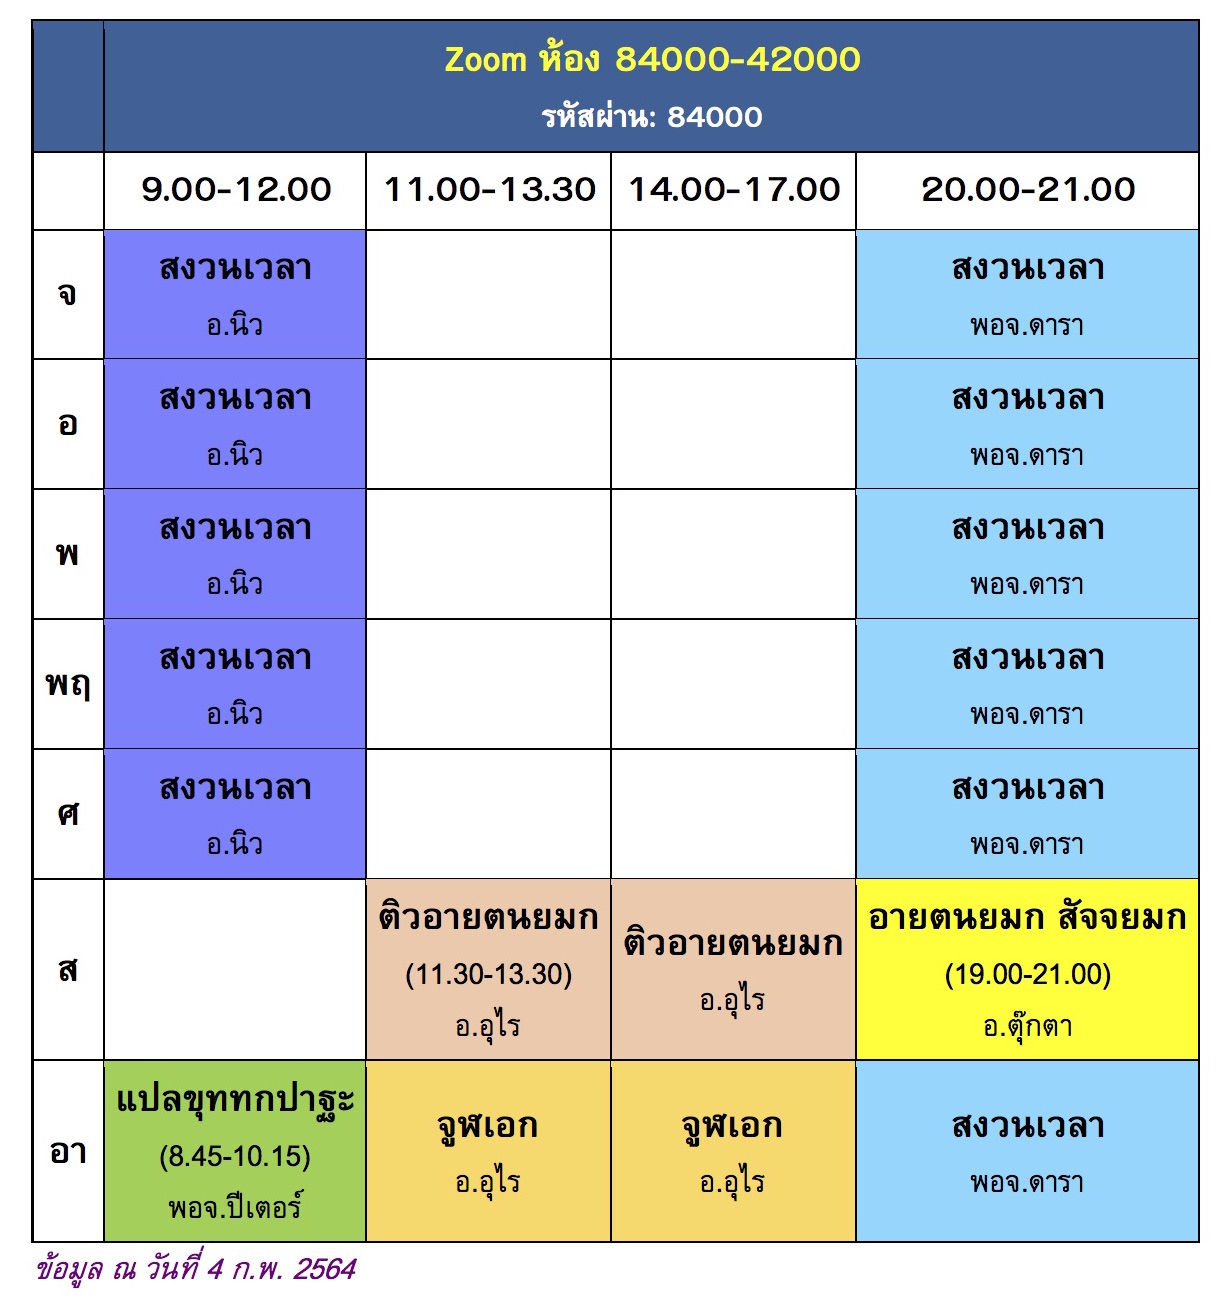
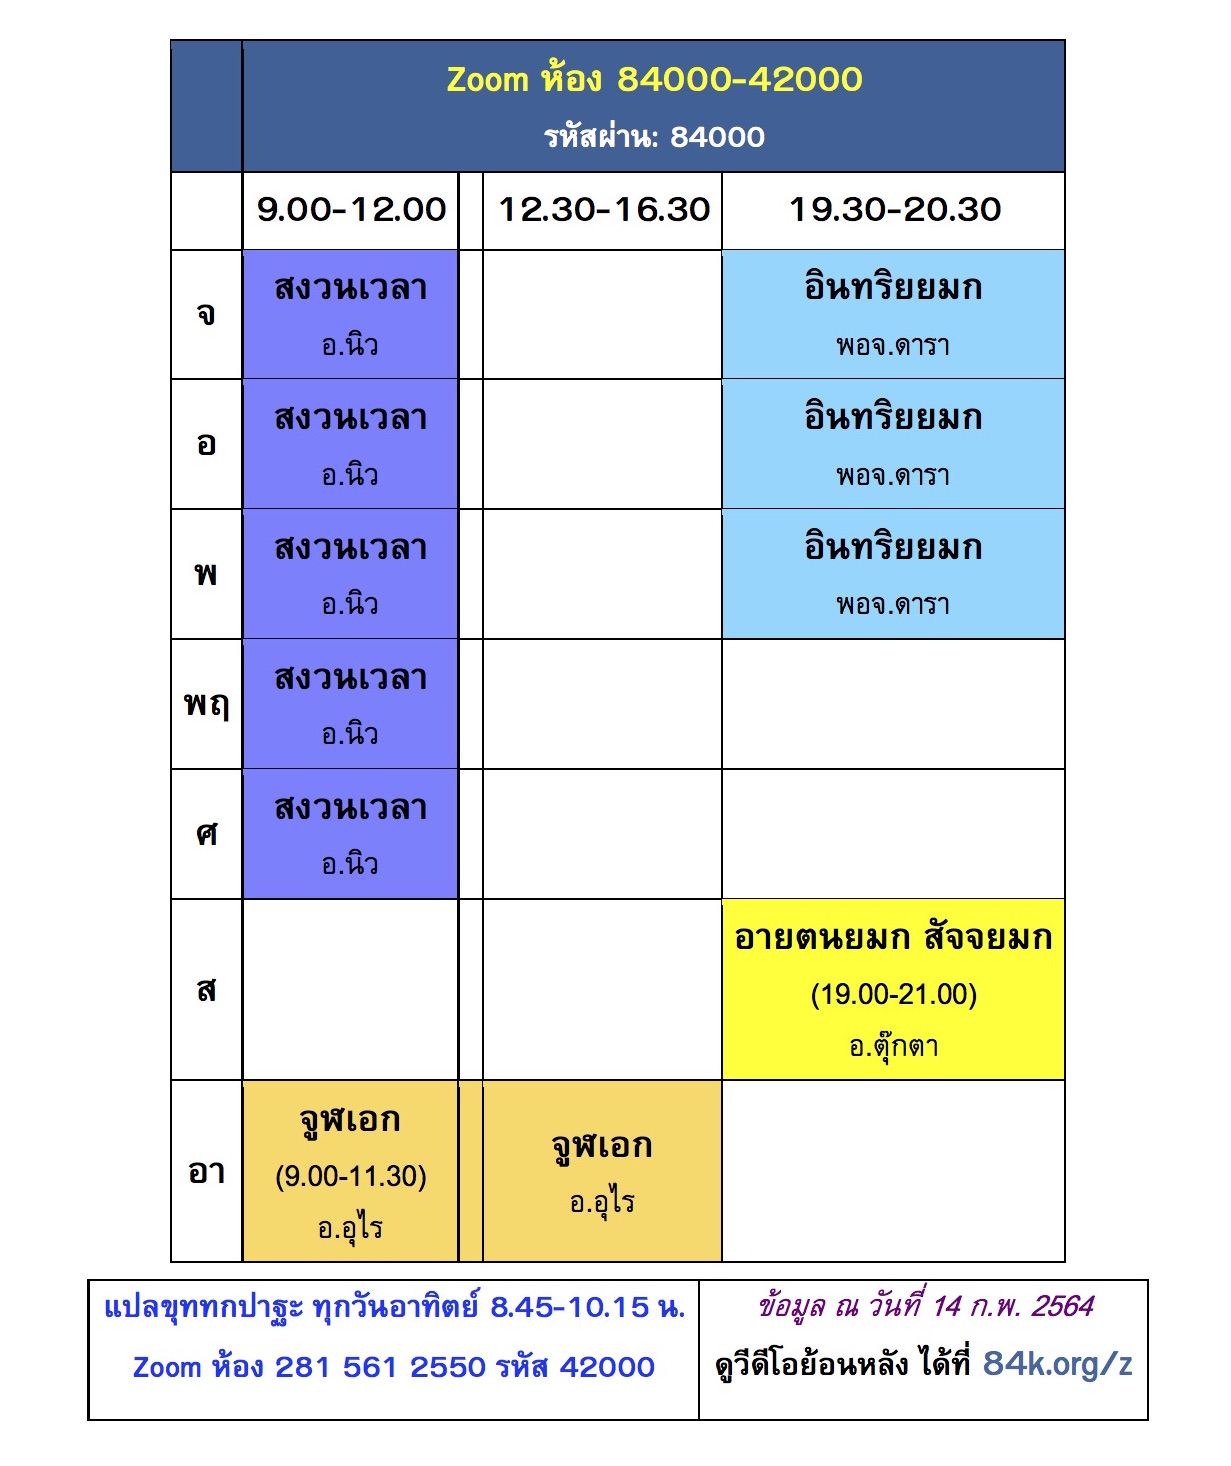
2021-02-14

diff --git a/links/index.html b/links/index.html
@@ -78,7 +78,8 @@
             <A href="http://www.kbrl.gov.mm" target="_blank">KBRL</A> |
             <A href="http://burmalibrary.org" target="_blank">Burma Library</A> |
             <A href="http://www.ibiblio.org/obl/show.php?cat=497" target="_blank">(Buddhist texts)</A> |
-            <A href="https://drive.google.com/drive/folders/1mfA4T8cYNyQNBFoTbLBuWELILd8uivfH?usp=sharing" href="_blank">บาฬีไวยากรณ์</A>
+            <A href="https://drive.google.com/drive/folders/1KTfelBkbF0YElp8tTHOkMC738-YcjoAv" target="_blank">คัมภีร์บาฬี อักษรพม่า</A> |
+            <A href="https://drive.google.com/drive/folders/1mfA4T8cYNyQNBFoTbLBuWELILd8uivfH" target="_blank">บาฬีไวยากรณ์</A>
 
 
             <HR style=width:50%>
@@ -102,10 +103,15 @@
 
             <HR style=width:50%>
             <H2>คลังไฟล์อภิธรรม</H2>
-            <A href="https://onedrive.live.com/?authkey=%21AFzwqmbQzEj38CQ&id=A52784FB8B0C64F6%2122981&cid=A52784FB8B0C64F6" href="_blank">อชว</A> |
+            <A href="https://onedrive.live.com/?authkey=%21AKtUipm1syZyKdE&id=A52784FB8B0C64F6%2137312&cid=A52784FB8B0C64F6" target="_blank">ยมกบน</A> |
+            <A href="https://onedrive.live.com/?authkey=%21AFzwqmbQzEj38CQ&id=A52784FB8B0C64F6%2122981&cid=A52784FB8B0C64F6" target="_blank">อชว</A> |
+            <A href="https://onedrive.live.com/?authkey=%21APmwrLUzzXsP-eI&id=A52784FB8B0C64F6%2123016&cid=A52784FB8B0C64F6" target="_blank">แนบ</A> |
+            <A href="https://onedrive.live.com/?authkey=%21ABhIbmcg7sKjo98&id=A52784FB8B0C64F6%2132817&cid=A52784FB8B0C64F6" target="_blank">อ.ไชยวัฒน์</A> |
+            <A href="https://onedrive.live.com/?authkey=%21APTbcesjv8Ifm8U&id=A52784FB8B0C64F6%2138944&cid=A52784FB8B0C64F6" target="_blank">อ.สมพร</A> |
             อ.หลิว
-            <A href="https://drive.google.com/open?id=0B1n-qwHtM-6efkZndGJmWUVWWXFLOUVscjcxdklRcy00MVhaRlc5V0phNnJDaDdETVJYV3M" href="_blank">(1)</A>
-            <A href="https://drive.google.com/open?id=0B1CxB73ecurGfmRDaUZ5M0pPcEtWT0ZkOWQ0U3JBWVJocFJsQ0RzSWRkbUk0UUdkeFRKMGs" href="_blank">(2)</A>
+            <A href="https://drive.google.com/open?id=0B1n-qwHtM-6efkZndGJmWUVWWXFLOUVscjcxdklRcy00MVhaRlc5V0phNnJDaDdETVJYV3M" target="_blank">(1)</A>
+            <A href="https://drive.google.com/open?id=0B1CxB73ecurGfmRDaUZ5M0pPcEtWT0ZkOWQ0U3JBWVJocFJsQ0RzSWRkbUk0UUdkeFRKMGs" target="_blank">(2)</A> |
+            <A href="https://onedrive.live.com/?authkey=%21AOFZPq9yxYNvkj4&id=A52784FB8B0C64F6%2125099&cid=A52784FB8B0C64F6" target="_blank">ภาษาอังกฤษ</A> |
 
             <HR style=width:50%>
             <H2>พจนานุกรม บาลี->ภาษาอื่น</H2>

diff --git a/z/index.html b/z/index.html
@@ -59,8 +59,8 @@
 <B>ปัจจยาการวิภังค์</B>: เลื่อนคลาสวันที่ 15 เม.ย. เป็นวันที่ 14 เม.ย.</SPAN><!---->
 
 <TABLE cellpadding=0 cellspacing=0 align=center><TR valign=top><TD>
-<A href=42000.jpg?0204><IMG border=0 src="42000.jpg?0204" width=500px height=600px /></A>
-<A href=84000.jpg?0204><IMG border=0 src="84000.jpg?0204" width=500px height=600px /></A></TABLE>
+<A href=42000.jpg?0214><IMG border=0 src="42000.jpg?0214" width=500px height=600px /></A>
+<A href=84000.jpg?0214><IMG border=0 src="84000.jpg?0214" width=500px height=600px /></A></TABLE>
 (คลิกที่รูป เพื่อดูตารางสอนที่ใหญ่ขึ้น)<BR/>
 
 <BR/><SPAN style="text-align:center; color:magenta; font-size:22px; font-weight:bold;">ทบทวนย้อนหลัง</SPAN>
